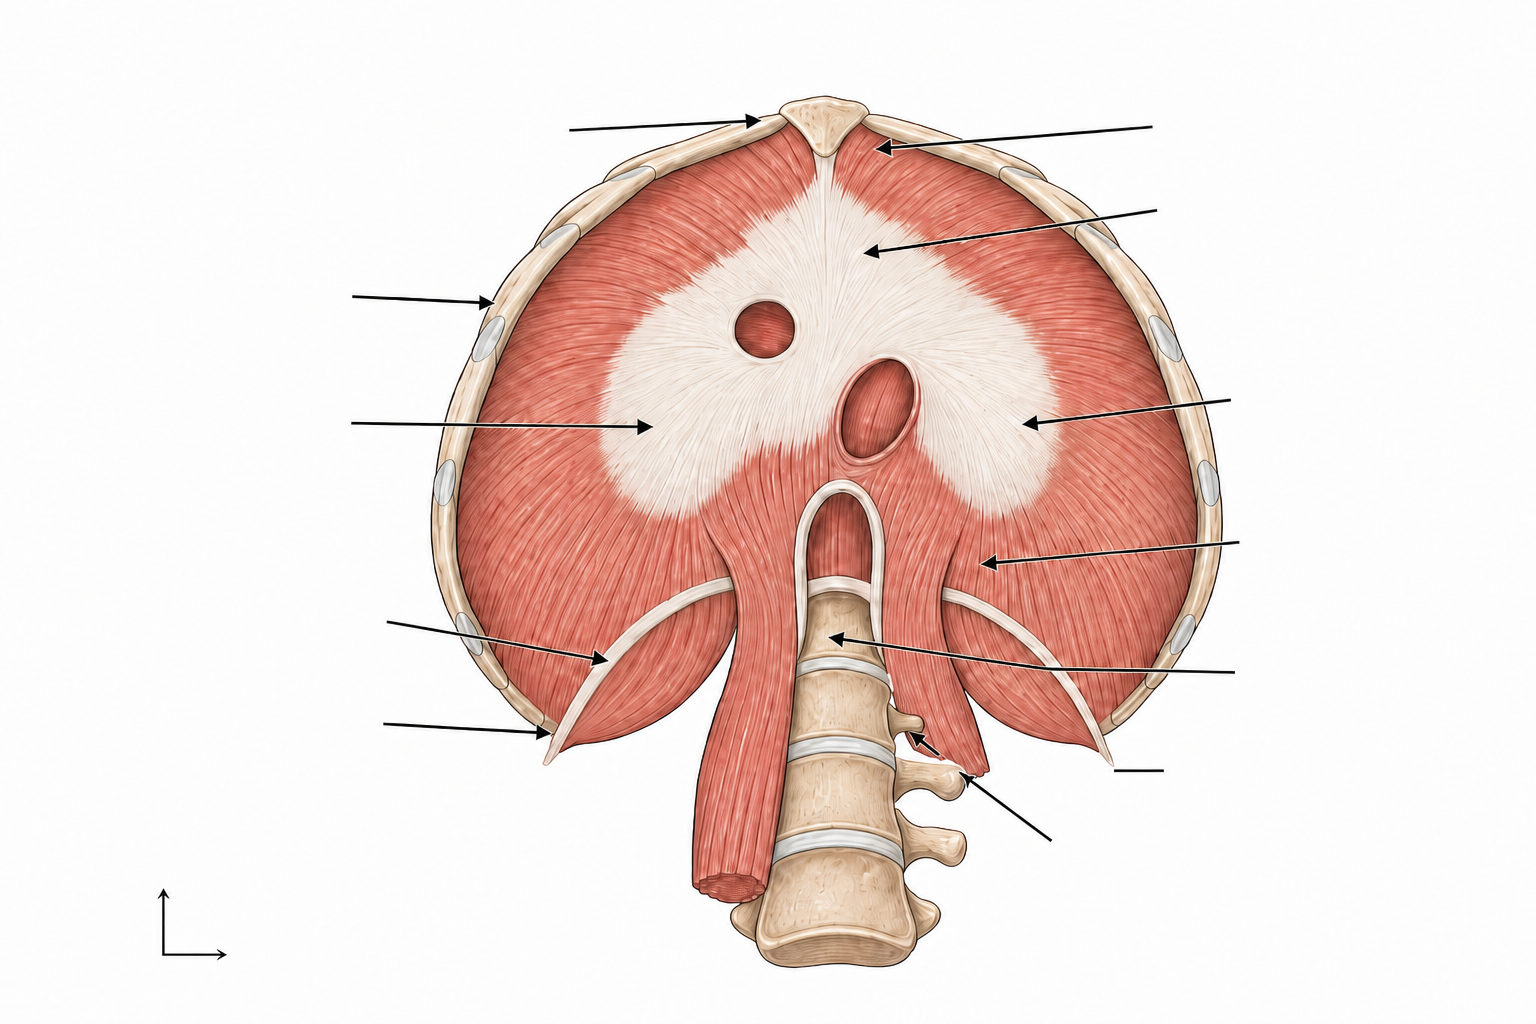
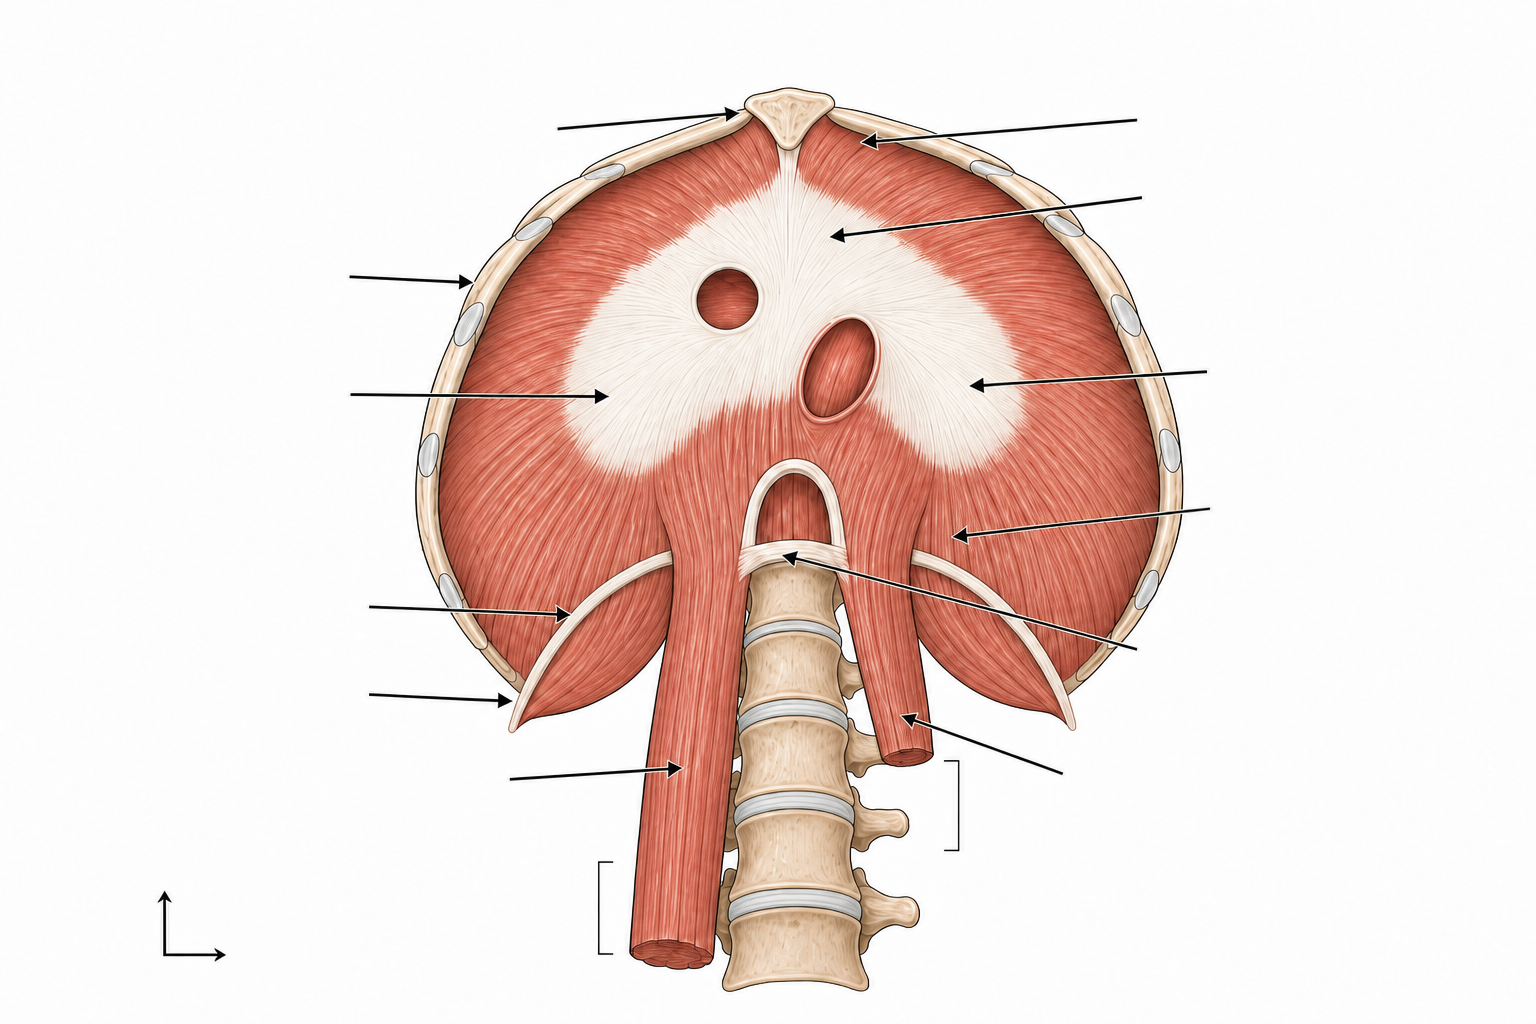
Fix ch03 diaphragm crura sides and median arcuate ligament arch.

Changed region(s): [[0.25, 0.0625, 0.8125, 0.9688], [0.0938, 0.875, 0.125, 0.9375]]

diff --git a/data/flash/ch03.js b/data/flash/ch03.js
@@ -69,7 +69,7 @@
     { id: "FC-ANAT-03-S02", chapter: "03", priority: "P2", kind: "schema", front: "Schéma — Quatre cavités cardiaques", back: "Quatre cavités cardiaques", frontImg: "matiere/anatomie/img/ch03/blank/02_4_cavites.png", backImg: "matiere/anatomie/img/ch03/02_4_cavites.png" },
     { id: "FC-ANAT-03-S03", chapter: "03", priority: "P2", kind: "schema", front: "Schéma — Douze côtes", back: "Douze côtes", frontImg: "matiere/anatomie/img/ch03/blank/03_12_cotes.png", backImg: "matiere/anatomie/img/ch03/03_12_cotes.png" },
     { id: "FC-ANAT-03-S04", chapter: "03", priority: "P2", kind: "schema", front: "Schéma — Sternum en trois parties", back: "Sternum en trois parties", frontImg: "matiere/anatomie/img/ch03/blank/04_sternum.png", backImg: "matiere/anatomie/img/ch03/04_sternum.png" },
-    { id: "FC-ANAT-03-S05", chapter: "03", priority: "P1", kind: "schema", front: "Schéma — Diaphragme vue inférieure", back: "Diaphragme vue inférieure", frontImg: "matiere/anatomie/img/ch03/blank/05_diaphragme_inf.png?v=fc3a", backImg: "matiere/anatomie/img/ch03/05_diaphragme_inf.png?v=fc3a" },
+    { id: "FC-ANAT-03-S05", chapter: "03", priority: "P1", kind: "schema", front: "Schéma — Diaphragme vue inférieure", back: "Diaphragme vue inférieure", frontImg: "matiere/anatomie/img/ch03/blank/05_diaphragme_inf.png?v=fc3b", backImg: "matiere/anatomie/img/ch03/05_diaphragme_inf.png?v=fc3b" },
     { id: "FC-ANAT-03-S06", chapter: "03", priority: "P1", kind: "schema", front: "Schéma — Coupoles diaphragmatiques", back: "Coupoles diaphragmatiques", frontImg: "matiere/anatomie/img/ch03/blank/06_coupoles.png", backImg: "matiere/anatomie/img/ch03/06_coupoles.png" },
     { id: "FC-ANAT-03-S07", chapter: "03", priority: "P1", kind: "schema", front: "Schéma — Trois hiatus du diaphragme", back: "Trois hiatus du diaphragme", frontImg: "matiere/anatomie/img/ch03/blank/07_hiatus.png", backImg: "matiere/anatomie/img/ch03/07_hiatus.png" },
     { id: "FC-ANAT-03-S08", chapter: "03", priority: "P2", kind: "schema", front: "Schéma — Médiastin", back: "Médiastin", frontImg: "matiere/anatomie/img/ch03/blank/08_mediastin.png", backImg: "matiere/anatomie/img/ch03/08_mediastin.png" },

diff --git a/matiere/anatomie/ch03.html b/matiere/anatomie/ch03.html
@@ -156,7 +156,7 @@
       <h2>4. Le diaphragme <span class="tag p1">P1</span></h2>
       <div class="callout hot"><strong>Souvent tombé</strong> Section la plus dense : digastrique, coupoles, 3 hiatus T12/T10/T9.</div>
       <figure class="schema">
-        <img src="./img/ch03/05_diaphragme_inf.png?v=fc3a" alt="Diaphragme vue inférieure" />
+        <img src="./img/ch03/05_diaphragme_inf.png?v=fc3b" alt="Diaphragme vue inférieure" />
       </figure>
       <figure class="schema">
         <img src="./img/ch03/06_coupoles.png" alt="Coupoles diaphragmatiques" />
